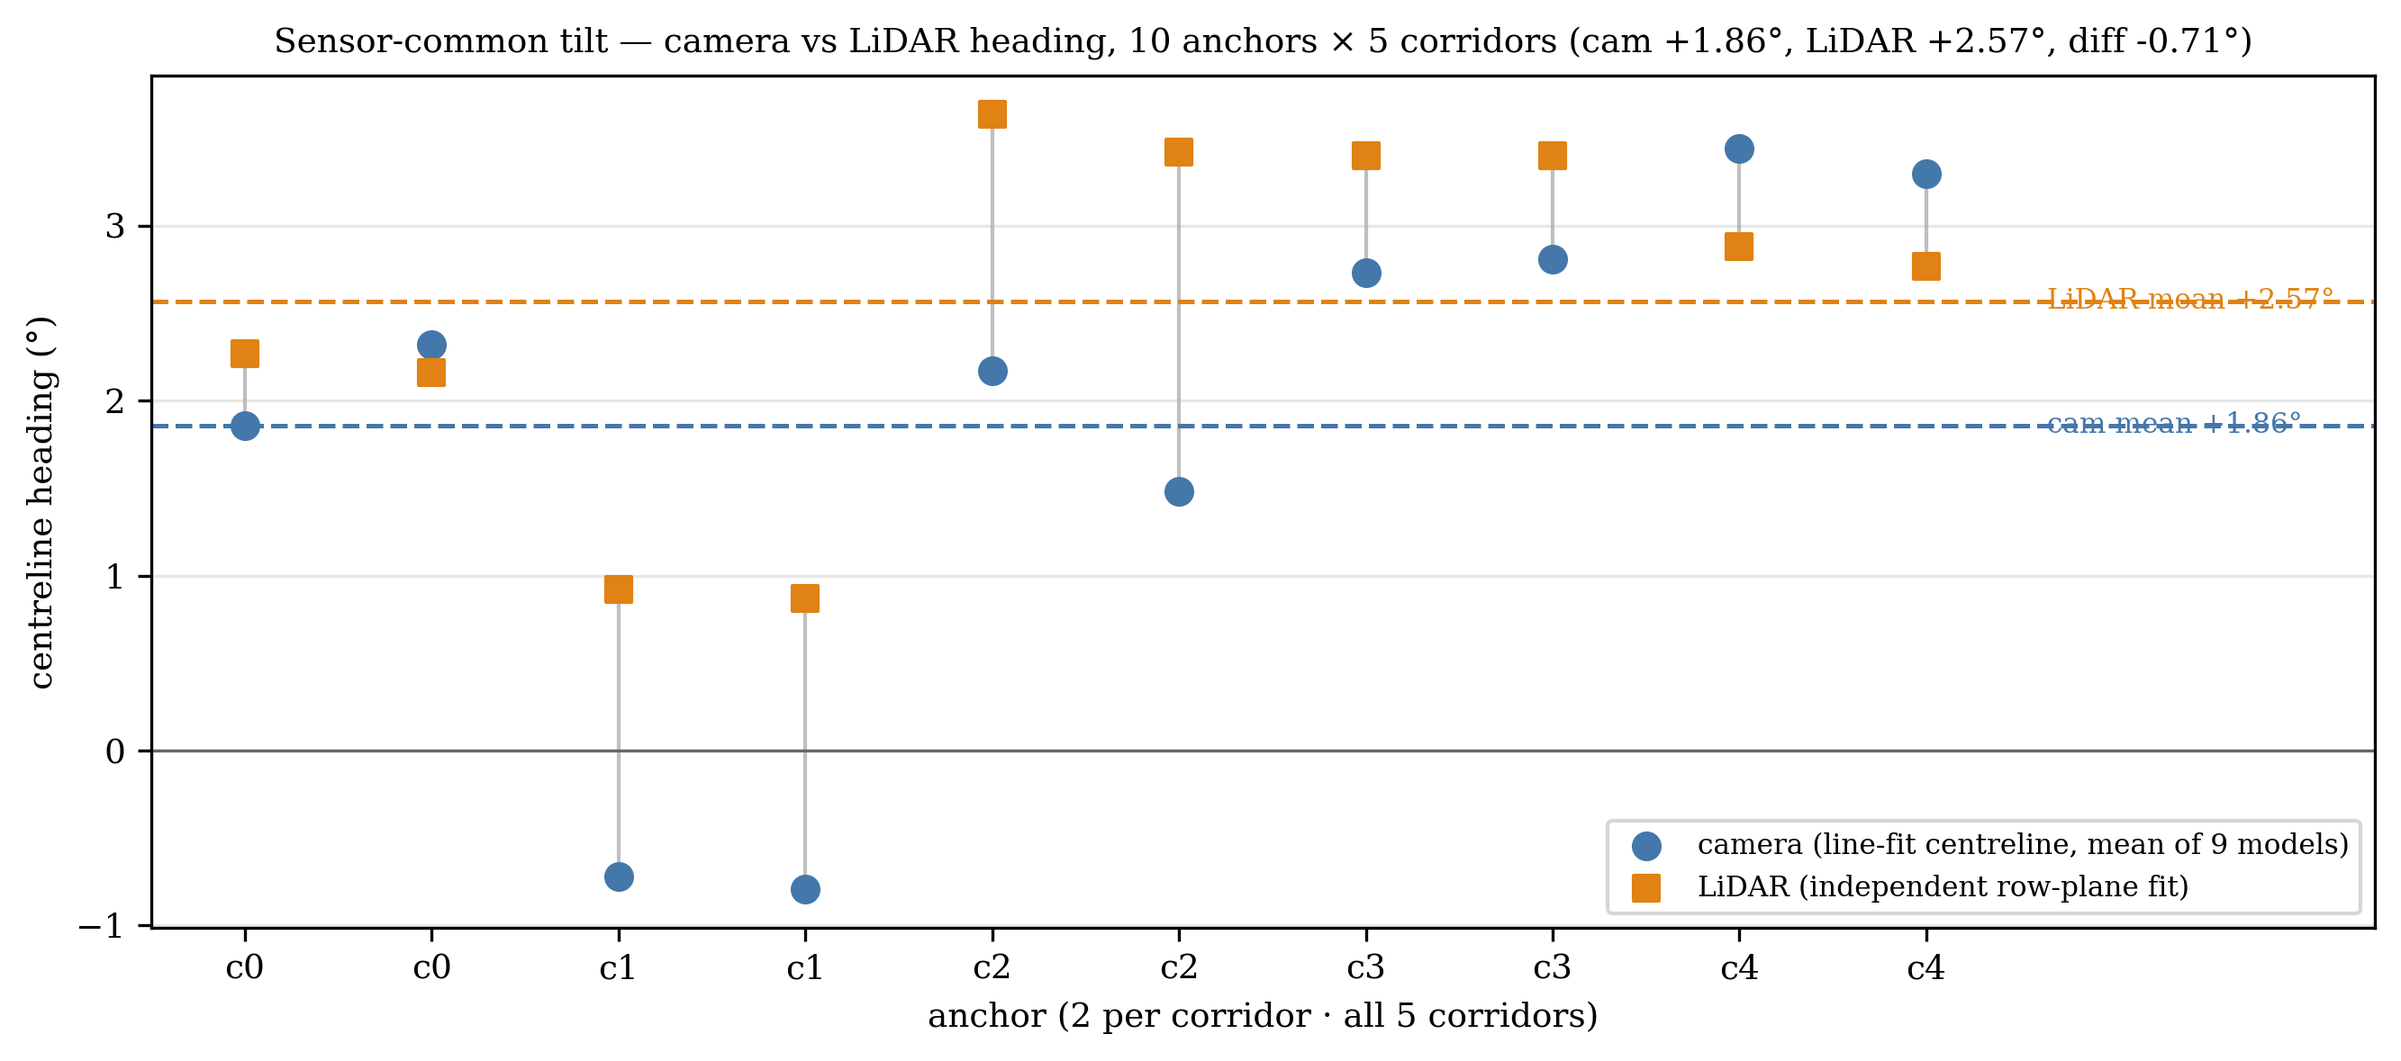
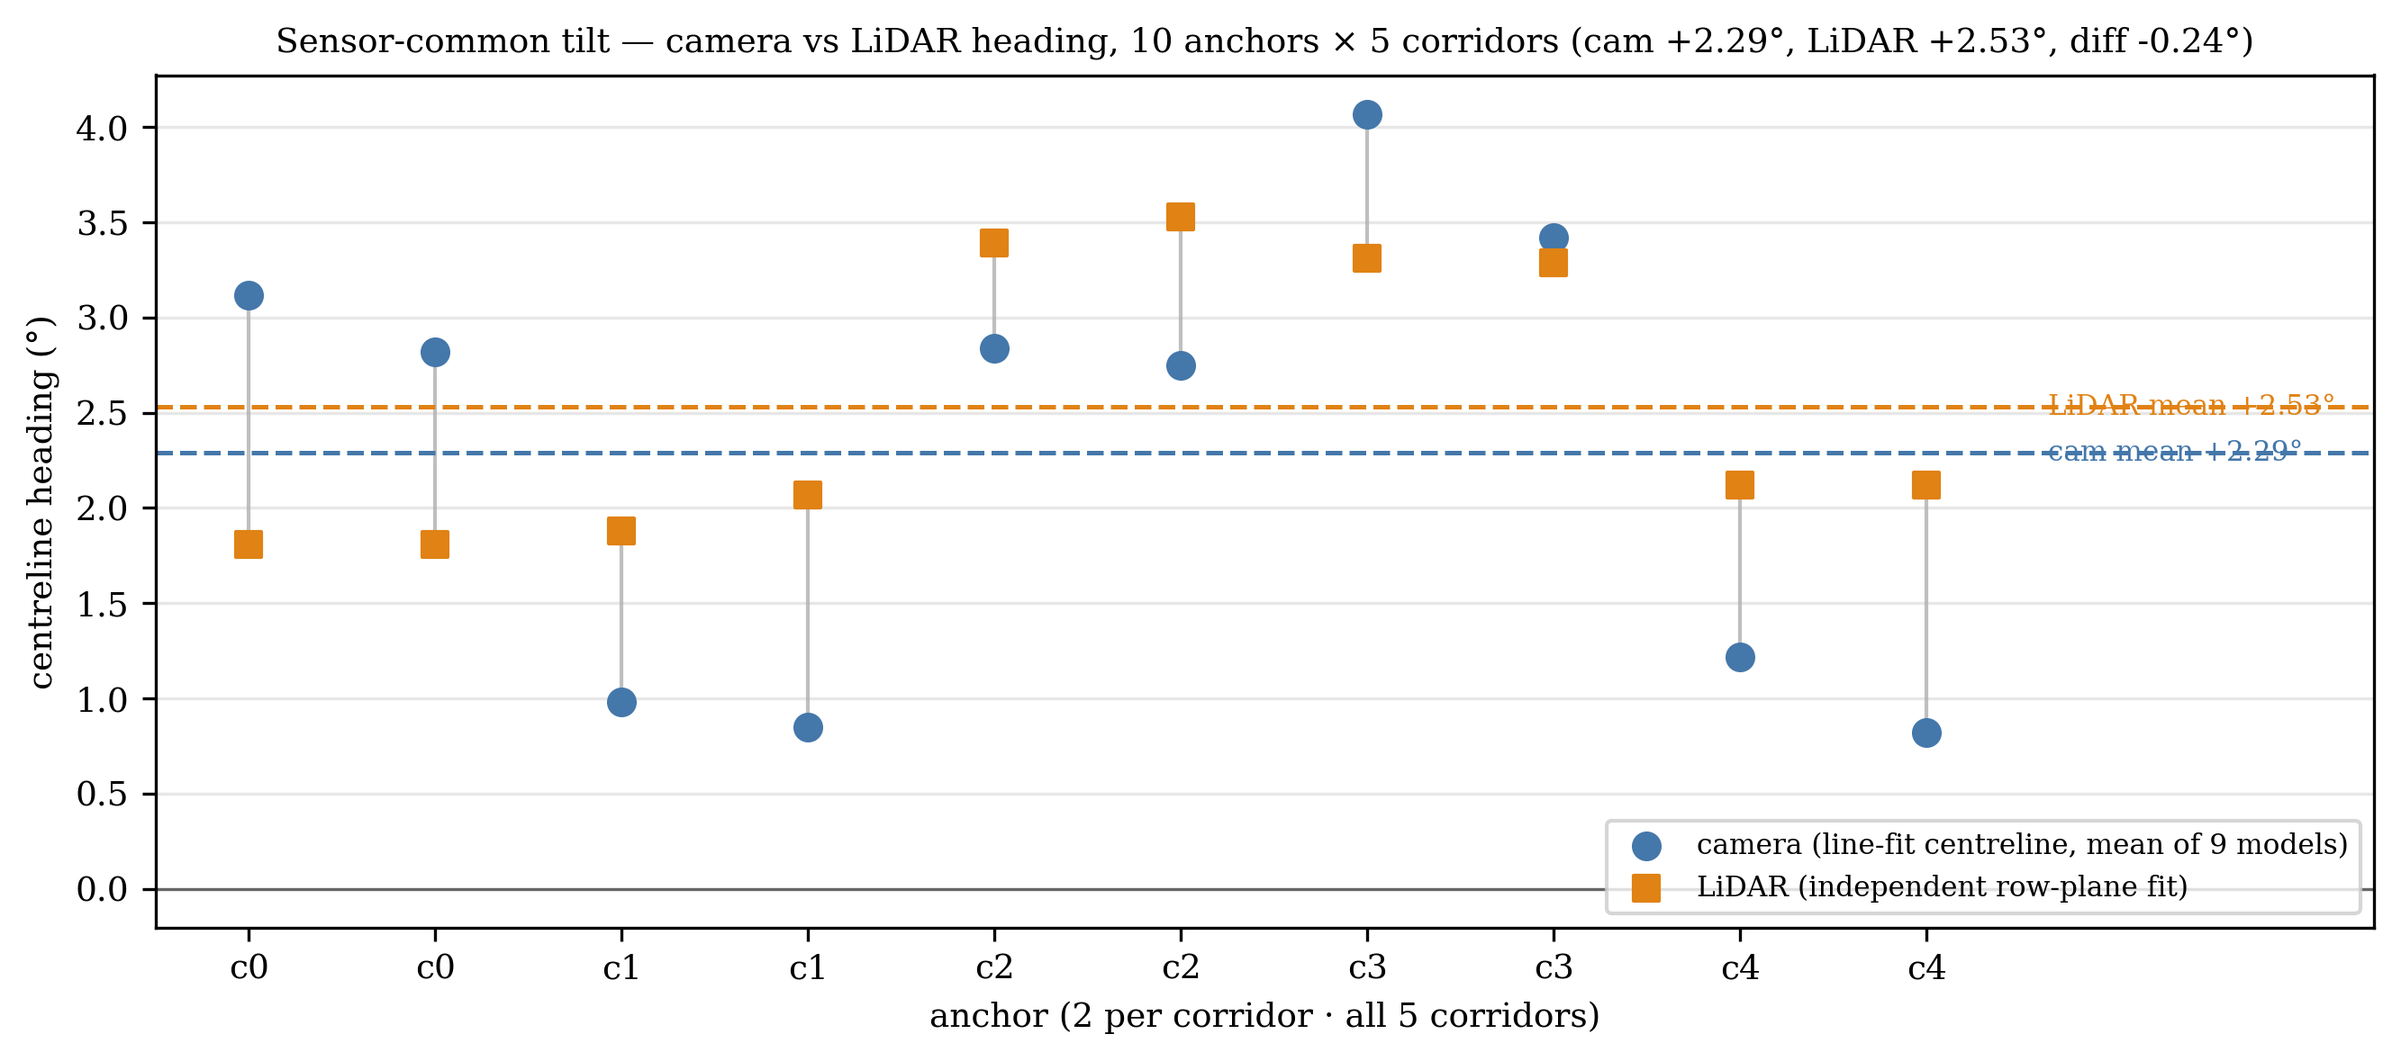
feat(geom): per-bag figure registry, cross-bag comparisons, fig3 correction
figures.py: lift the 11 frame-specific figures' hardcoded March frame ids into
a per-bag FRAMES registry (March reproduces byte-identically; April frames
curated to the same criteria, near-seed split verified). figures_compare.py
(new): 4 cross-bag comparison figures (--bags), the F013 GT-1/GT-2 forest, F017
sensor agreement, F020 per-category distribution, F022 closure. Generates
April's 15 figures + the 4 comparisons.

Regenerates March fig3 from the D047-corrected anchors — this REPLACES the
committed fig3 in place (the prior one was built from the buggy row-exit
anchors), it is a correction to an existing figure, not a new addition.

diff --git a/vineyard_nav/scripts/geometric/figures_compare.py b/vineyard_nav/scripts/geometric/figures_compare.py
@@ -1,0 +1,183 @@
+"""Cross-bag comparison figures for the multi-bag seasonal evaluation (D040/D046).
+
+  python3 figures_compare.py                      # default --bags march april
+  python3 figures_compare.py --bags march april may
+
+Each figure reads the per-bag COMMITTED JSON artefacts and plots one series/group per bag, so the
+same code extends to whatever bags actually completed — no per-N special-casing. These figures belong
+to no single bag, so they live in results/geometric/comparison/figures/ (a cross-bag sibling of the
+per-bag final/ dirs). Data-driven only (no model inference), so this module stays light — it does NOT
+import figures.py (which pulls in torch/ultralytics). Style constants are mirrored from figures.py.
+
+Four figures, all naturally list-of-N (grouped by bag):
+  cmp_forest            F013 paired cross-arm GT-1 + GT-2 differences (indistinguishability across bags)
+  cmp_tilt              F017 camera-vs-LiDAR row-tilt agreement per bag (sensor-common)
+  cmp_nonrow_distribution  F020 spurious two_row rate per category per arm
+  cmp_mitigation_closure   F022 state-gate rejection per category (arm-invariant -> one value/bag)
+"""
+import sys
+import json
+import argparse
+from pathlib import Path
+
+import numpy as np
+import matplotlib
+matplotlib.use("Agg")
+import matplotlib.pyplot as plt
+
+PKG = Path(__file__).resolve().parents[2]
+sys.path.insert(0, str(PKG / "scripts" / "geometric"))
+from bag_config import resolve
+
+# ---- style mirrored from figures.py (kept in sync by hand; these are stable) ----
+plt.rcParams.update({
+    "font.family": "serif", "font.serif": ["DejaVu Serif"], "font.size": 9,
+    "axes.titlesize": 9, "axes.labelsize": 9, "legend.fontsize": 8,
+    "savefig.dpi": 300, "figure.dpi": 150, "savefig.bbox": "tight"})
+ARM = {"A": "#4477aa", "B": "#ee6677", "C": "#228833"}
+CATS = ("stationary", "turn", "transition")
+RTK_MM = 38.0            # 3.8 cm RTK-GNSS localisation floor (Polvara 2024 §5.3), the GT-1 yardstick
+OUT = PKG / "results" / "geometric" / "comparison" / "figures"
+
+
+def _eval_dir(bag):
+    return resolve(bag, "eligible")["out_dir"]
+
+
+def _save(fig, name):
+    OUT.mkdir(parents=True, exist_ok=True)
+    p = OUT / name
+    fig.savefig(p); plt.close(fig)
+    print(f"  {name} -> {p.relative_to(PKG)}")
+    return p
+
+
+# ============================ cmp_forest (F013) ============================
+def cmp_forest(bags):
+    """Paired cross-arm GT-1 (mm) and GT-2 (deg) differences with 95% CIs, one row per (bag,pair).
+    The headline: every GT-1 CI crosses zero on every bag; the GT-2 panel shows march's sub-noise-floor
+    offset (CIs excluding zero) not reproducing on april (all cross zero)."""
+    pairs = ["A-B", "A-C", "B-C"]
+    data = {b: json.load(open(_eval_dir(b) / "paired_crossarm.json"))["across_seed"] for b in bags}
+    fig, (axL, axR) = plt.subplots(1, 2, figsize=(11, 1.4 + 0.5 * len(bags) * len(pairs)))
+
+    def panel(ax, key, scale, unit, floor_label):
+        rows, labels, colors = [], [], []
+        y = 0
+        yticks, yticklabels = [], []
+        for b in bags:
+            for p in pairs:
+                d = data[b][p][key]
+                mid = d["mean_diff"] * scale
+                lo, hi = d["ci95"][0] * scale, d["ci95"][1] * scale
+                excl = not (lo <= 0 <= hi)
+                ax.plot([lo, hi], [y, y], "-", lw=2.2, color=("#c0392b" if excl else "#555"))
+                ax.plot(mid, y, "o", ms=5, color=("#c0392b" if excl else "#555"))
+                yticks.append(y); yticklabels.append(f"{b[:3]}  {p}")
+                y += 1
+            y += 0.6  # gap between bags
+        ax.axvline(0, color="k", lw=0.8, ls="--")
+        ax.set_yticks(yticks); ax.set_yticklabels(yticklabels)
+        ax.invert_yaxis(); ax.set_xlabel(f"paired difference ({unit})")
+        ax.grid(axis="x", alpha=0.3)
+        return floor_label
+
+    panel(axL, "GT1", 1000.0, "mm", None)
+    axL.axvspan(-RTK_MM, RTK_MM, color="#2166ac", alpha=0.06)
+    axL.set_title("GT-1 lateral offset — indistinguishable on every bag\n(shaded = ±RTK floor 38 mm; dashed = 0)")
+    panel(axR, "GT2", 1.0, "deg", None)
+    axR.set_title("GT-2 heading — march sub-noise-floor offset\ndoes not reproduce on april (red = CI excludes 0)")
+    fig.suptitle(f"F013 cross-arm paired differences · bags: {', '.join(bags)} · red = 95% CI excludes zero",
+                 y=1.02, fontsize=10)
+    fig.tight_layout()
+    return _save(fig, "cmp_forest.png")
+
+
+# ============================ cmp_tilt (F017) ============================
+def cmp_tilt(bags):
+    """Camera vs LiDAR row-tilt on the mid-pass anchors per bag (post-D047). Shows both sensors nonzero,
+    same sign, and agreeing — the sensor-common result — across bags at their (scene-dependent) magnitudes."""
+    fig, ax = plt.subplots(figsize=(1.8 + 1.6 * len(bags), 4.2))
+    x = np.arange(len(bags)); w = 0.32
+    cam, lid, lsd = [], [], []
+    for b in bags:
+        d = json.load(open(_eval_dir(b) / "lidar_crosscheck.json"))
+        cam.append(d["mean_cam_hdg"]); lid.append(d["mean_lidar_hdg"]); lsd.append(d["sd_lidar_hdg"])
+    ax.bar(x - w / 2, cam, w, label="camera (line-fit)", color="#4477aa")
+    ax.bar(x + w / 2, lid, w, yerr=lsd, capsize=4, label="LiDAR (trunk-band fit)", color="#d95f02")
+    for xi, (c, l) in enumerate(zip(cam, lid)):
+        ax.text(xi - w / 2, c + 0.05, f"{c:+.2f}", ha="center", va="bottom", fontsize=7)
+        ax.text(xi + w / 2, l + 0.05, f"{l:+.2f}", ha="center", va="bottom", fontsize=7)
+    ax.axhline(0, color="k", lw=0.8)
+    ax.set_xticks(x); ax.set_xticklabels(bags)
+    ax.set_ylabel("row heading vs base_link (deg)")
+    ax.set_title("F017 sensor-common row tilt (post-D047 mid-pass anchors)\nboth sensors nonzero, same sign, agreeing on every bag")
+    ax.legend(); ax.grid(axis="y", alpha=0.3)
+    fig.tight_layout()
+    return _save(fig, "cmp_tilt.png")
+
+
+# ============================ cmp_nonrow_distribution (F020) ============================
+def cmp_nonrow_distribution(bags):
+    """Spurious two_row rate per non-in-row category, per arm, per bag. NOTE: this is the busiest
+    comparison figure — it carries three dimensions (bag x category x arm). It is clean at 2-3 bags;
+    beyond that it would need faceting (one small-multiple per bag). Not engineered for that here —
+    revisit if many bags land. The arm dimension is essential (F020's stationary arm-divergence)."""
+    data = {b: json.load(open(resolve(b, "non_in_row")["out_dir"] / "non_in_row_analysis.json"))
+            ["F020_output_distribution"]["per_category"] for b in bags}
+    fig, axes = plt.subplots(1, len(CATS), figsize=(3.2 * len(CATS), 4), sharey=True)
+    x = np.arange(len(bags)); w = 0.26
+    for ax, cat in zip(axes, CATS):
+        for k, arm in enumerate("ABC"):
+            vals = [data[b][cat][arm]["two_row"] for b in bags]
+            ax.bar(x + (k - 1) * w, vals, w, label=f"arm {arm}", color=ARM[arm])
+        ax.set_title(cat); ax.set_xticks(x); ax.set_xticklabels(bags)
+        ax.grid(axis="y", alpha=0.3)
+    axes[0].set_ylabel("spurious two_row (% of category)")
+    axes[-1].legend()
+    fig.suptitle(f"F020 spurious two_row per non-in-row category · bags: {', '.join(bags)}\n"
+                 "turn reproduces (~80%, arm-consistent); stationary arm-divergence appears on april", y=1.04, fontsize=10)
+    fig.tight_layout()
+    return _save(fig, "cmp_nonrow_distribution.png")
+
+
+# ============================ cmp_mitigation_closure (F022) ============================
+def cmp_mitigation_closure(bags):
+    """State-gate rejection per non-in-row category, per bag. F022 is arm-invariant per category, so
+    one value per (bag, category) (arm A shown; arms coincide). Shows the transition-category collapse
+    (~96% march -> ~70% april) that drives the headline overall-closure drop."""
+    data = {b: json.load(open(resolve(b, "eligible")["out_dir"].parent / "mitigation_evaluation"
+            / "mitigation_analysis.json"))["F022_F023_causal"]["non_in_row"]["per_category"] for b in bags}
+    fig, ax = plt.subplots(figsize=(2.2 + 1.7 * len(bags), 4.2))
+    x = np.arange(len(CATS)); w = 0.8 / len(bags)
+    palette = ["#2166ac", "#d95f02", "#1a9e4b", "#8844aa", "#88419d", "#a6761d"]
+    for j, b in enumerate(bags):
+        vals = [data[b][cat]["A"]["f022_%"] for cat in CATS]
+        ax.bar(x + (j - (len(bags) - 1) / 2) * w, vals, w, label=b, color=palette[j % len(palette)])
+        for xi, v in enumerate(vals):
+            ax.text(x[xi] + (j - (len(bags) - 1) / 2) * w, v + 0.6, f"{v:.0f}", ha="center", va="bottom", fontsize=7)
+    ax.set_xticks(x); ax.set_xticklabels(CATS); ax.set_ylim(0, 108)
+    ax.set_ylabel("state-gate rejection (% of spurious two_row)")
+    ax.set_title("F022 state-gate closure per category (arm-invariant)\ntransition collapses on april; stationary/turn hold")
+    ax.legend(title="bag"); ax.grid(axis="y", alpha=0.3)
+    fig.tight_layout()
+    return _save(fig, "cmp_mitigation_closure.png")
+
+
+def main():
+    ap = argparse.ArgumentParser()
+    ap.add_argument("--bags", nargs="+", default=["march", "april"])
+    ap.add_argument("--only", default=None, help="one of: forest tilt nonrow mitigation")
+    a = ap.parse_args()
+    print(f"[figures_compare] bags = {a.bags}")
+    figs = {"forest": cmp_forest, "tilt": cmp_tilt,
+            "nonrow": cmp_nonrow_distribution, "mitigation": cmp_mitigation_closure}
+    for name, fn in figs.items():
+        if a.only and a.only != name:
+            continue
+        fn(a.bags)
+    print("done.")
+
+
+if __name__ == "__main__":
+    main()

diff --git a/vineyard_nav/scripts/geometric/figures.py b/vineyard_nav/scripts/geometric/figures.py
@@ -525,34 +525,71 @@ def fig_complementarity(bag):
     return p
 
 
+# ================= per-bag representative frames =================
+# The 4 data-driven figures (2b forest, 3 tilt, 5b distribution, 12 complementarity) read JSON
+# artefacts and take no frames. The other 11 render a SPECIFIC frame curated as a representative
+# example. Those frame indices are BAG-SPECIFIC — march 10247 is a different scene from april 10247,
+# and may not even be eligible/in the right category — so they live in this per-bag registry, not
+# hardcoded in build(). Each april frame was curated against the SAME criterion its march counterpart
+# was chosen for (see the review record when it was locked). `footer`/`caption` also carry per-bag
+# stats (F022 closure, F025 recovery) so a march number never appears on an april figure.
+# Adding a bag = adding one FRAMES entry, same discipline as bag_config.BAGS.
+FRAMES = {
+    "march": {
+        "anatomy": 10247, "arm_invariance": 7397, "mechanism": 10247, "abstention": 13820,
+        "stationary": 6, "turn": 10111, "transition": 11264,
+        "f023_triple": (423, 12801, 653), "turn_blind": 14987,
+        "abstention_caption": ("Left side: 1 detection within the 5 m near-seed window (fit needs >=2 to seed) · right side: 6, fits\n"
+                               "the 5 m near-seed window is empirically near-optimal — widening to 6 m recovers ~28% of abstentions\n"
+                               "at ~4% RMS cost; wider degrades the full-set metric via adjacent-row corruption (adjacency guard needed)"),
+        "f022_footer": "State gate catches 98.4% of spurious non-in-row outputs at 1.2% in-row false-positive · arm-invariant · uses odometry only (speed, |v_y|, heading-rate) - no perception input.",
+        "f023_footer": "Geometry filter catches ~40% via off-nominal geometry at ~3% in-row false-positive · perception-based, odometry-free (deployment fallback) · cannot resolve clean-geometry turns.",
+    },
+    "april": {
+        # Curated 23 Jul 2026 against march's criteria; near-seed split for the abstention frame
+        # verified numerically (failing side R: 1 within 5 m / 11 beyond — mirrors march 13820's 1/9).
+        "anatomy": 19491, "arm_invariance": 13467, "mechanism": 19491, "abstention": 17967,
+        "stationary": 546, "turn": 15707, "transition": 624,
+        "f023_triple": (3692, 16834, 18924), "turn_blind": 15705,
+        "abstention_caption": ("Right side: 1 detection within the 5 m near-seed window (fit needs >=2 to seed) · left side: 4, fits\n"
+                               "the 5 m near-seed window is empirically near-optimal — widening to 6 m recovers ~26% of abstentions\n"
+                               "at <5% RMS cost; wider degrades the full-set metric via adjacent-row corruption (adjacency guard needed)"),
+        "f022_footer": "State gate catches 88-92% of spurious non-in-row outputs (100% stationary / ~88% turn / ~70% transition) at 0.9% in-row false-positive · arm-invariant per category · uses odometry only - no perception input.",
+        "f023_footer": "Geometry filter catches ~27-43% via off-nominal geometry at ~3% in-row false-positive · perception-based, odometry-free (deployment fallback) · cannot resolve clean-geometry turns.",
+    },
+}
+
+
 # ================= locked figure set =================
 def build(bag, only=None):
+    if bag not in FRAMES:
+        raise SystemExit(f"figures.py: no representative-frame registry for bag '{bag}'. The 11 "
+                         f"frame-specific figures need curated per-bag frames (march's are not valid "
+                         f"for another bag). Add a FRAMES['{bag}'] entry (see the march entry) before "
+                         f"generating. Known: {sorted(FRAMES)}.")
+    fr = FRAMES[bag]
     done = []
     F = {
-        "1":  lambda: plot_in_row_frame(bag, 10247, "A", anatomy=True, fname="fig1_anatomy_10247.png"),
-        "2":  lambda: plot_arm_invariance(bag, 7397),
+        "1":  lambda: plot_in_row_frame(bag, fr["anatomy"], "A", anatomy=True, fname=f"fig1_anatomy_{fr['anatomy']}.png"),
+        "2":  lambda: plot_arm_invariance(bag, fr["arm_invariance"]),
         "2b": lambda: fig_forest(bag),
         "3":  lambda: fig_tilt_sensor(bag),
-        "4":  lambda: plot_in_row_frame(bag, 10247, "C", fname="fig4_mechanism_10247_C.png",
+        "4":  lambda: plot_in_row_frame(bag, fr["mechanism"], "C", fname=f"fig4_mechanism_{fr['mechanism']}_C.png",
               caption_extra="Phase-C classes: trunks (blue) load-bearing in the near field; the row fit is class-agnostic"),
-        "4b": lambda: plot_in_row_frame(bag, 13820, "A", near_seed=True, fname="fig4b_abstention_13820.png",
-              caption_extra="Left side: 1 detection within the 5 m near-seed window (fit needs >=2 to seed) · right side: 6, fits\n"
-                            "the 5 m near-seed window is empirically near-optimal — widening to 6 m recovers ~28% of abstentions\n"
-                            "at ~4% RMS cost; wider degrades the full-set metric via adjacent-row corruption (adjacency guard needed)"),
-        "5":  lambda: plot_non_in_row_frame(bag, 6, "stationary", fname="fig5_stationary_6.png"),
+        "4b": lambda: plot_in_row_frame(bag, fr["abstention"], "A", near_seed=True, fname=f"fig4b_abstention_{fr['abstention']}.png",
+              caption_extra=fr["abstention_caption"]),
+        "5":  lambda: plot_non_in_row_frame(bag, fr["stationary"], "stationary", fname=f"fig5_stationary_{fr['stationary']}.png"),
         "5b": lambda: fig_dist_bars(bag),
-        "6":  lambda: plot_non_in_row_frame(bag, 10111, "turn", fname="fig6_turn_10111.png"),
-        "7":  lambda: plot_non_in_row_frame(bag, 11264, "transition", fname="fig7_transition_11264.png"),
-        "8":  lambda: plot_non_in_row_frame(bag, 11264, "transition", driven=True, fname="fig8_driven_path_11264.png"),
-        "9":  lambda: plot_mitigation_3up(bag, [(6, "stationary", "A"), (10111, "turn", "A"), (11264, "transition", "A")],
+        "6":  lambda: plot_non_in_row_frame(bag, fr["turn"], "turn", fname=f"fig6_turn_{fr['turn']}.png"),
+        "7":  lambda: plot_non_in_row_frame(bag, fr["transition"], "transition", fname=f"fig7_transition_{fr['transition']}.png"),
+        "8":  lambda: plot_non_in_row_frame(bag, fr["transition"], "transition", driven=True, fname=f"fig8_driven_path_{fr['transition']}.png"),
+        "9":  lambda: plot_mitigation_3up(bag, [(fr["stationary"], "stationary", "A"), (fr["turn"], "turn", "A"), (fr["transition"], "transition", "A")],
                                           "f022", "State gate — reject per category (odometry: speed / |v_y| / heading-rate)", "fig9_f022_3up.png",
-                                          accent=ACCENT["state"],
-                                          footer="State gate catches 98.4% of spurious non-in-row outputs at 1.2% in-row false-positive · arm-invariant · uses odometry only (speed, |v_y|, heading-rate) - no perception input."),
-        "10": lambda: plot_mitigation_3up(bag, [(423, "stationary", "A"), (12801, "turn", "A"), (653, "transition", "A")],
+                                          accent=ACCENT["state"], footer=fr["f022_footer"]),
+        "10": lambda: plot_mitigation_3up(bag, [(fr["f023_triple"][0], "stationary", "A"), (fr["f023_triple"][1], "turn", "A"), (fr["f023_triple"][2], "transition", "A")],
                                           "f023", "Geometry filter — off-nominal catches (firing in-row-p99 threshold labelled)", "fig10_f023_3up.png",
-                                          accent=ACCENT["geom"],
-                                          footer="Geometry filter catches ~40% via off-nominal geometry at ~3% in-row false-positive · perception-based, odometry-free (deployment fallback) · cannot resolve clean-geometry turns."),
-        "11": lambda: plot_mitigation_frame(bag, 14987, "turn", "turn_blind", fname="fig11_turn_blind_14987.png"),
+                                          accent=ACCENT["geom"], footer=fr["f023_footer"]),
+        "11": lambda: plot_mitigation_frame(bag, fr["turn_blind"], "turn", "turn_blind", fname=f"fig11_turn_blind_{fr['turn_blind']}.png"),
         "12": lambda: fig_complementarity(bag),
     }
     ids = [only] if only else list(F)
